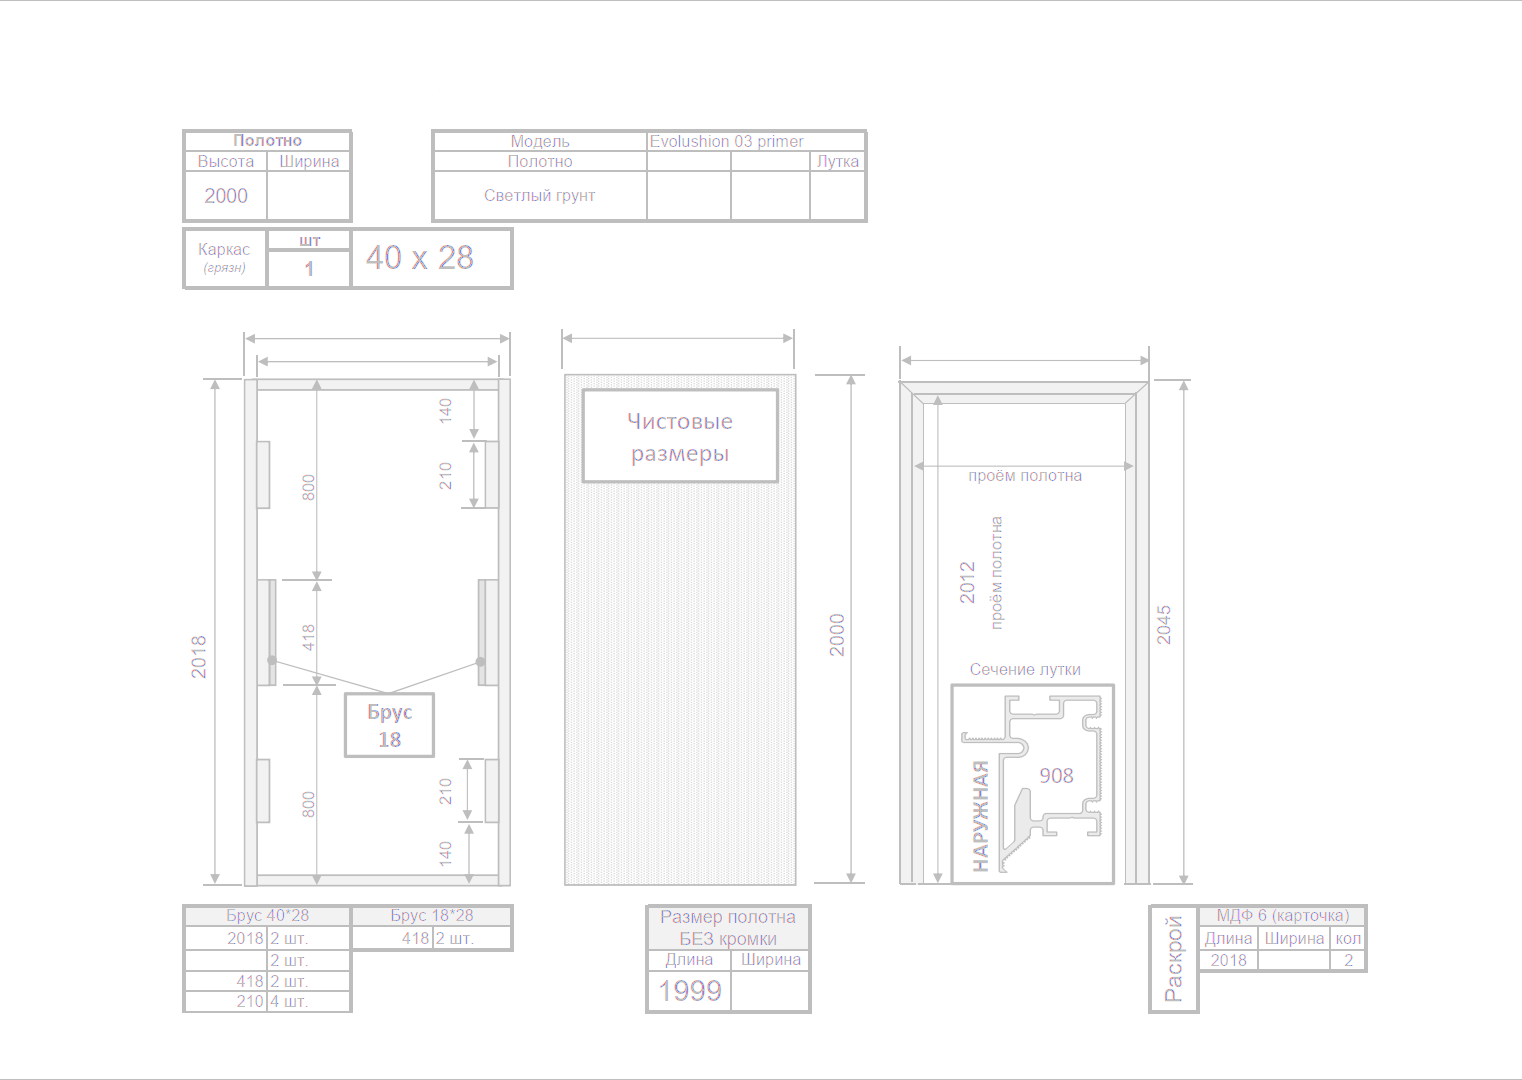
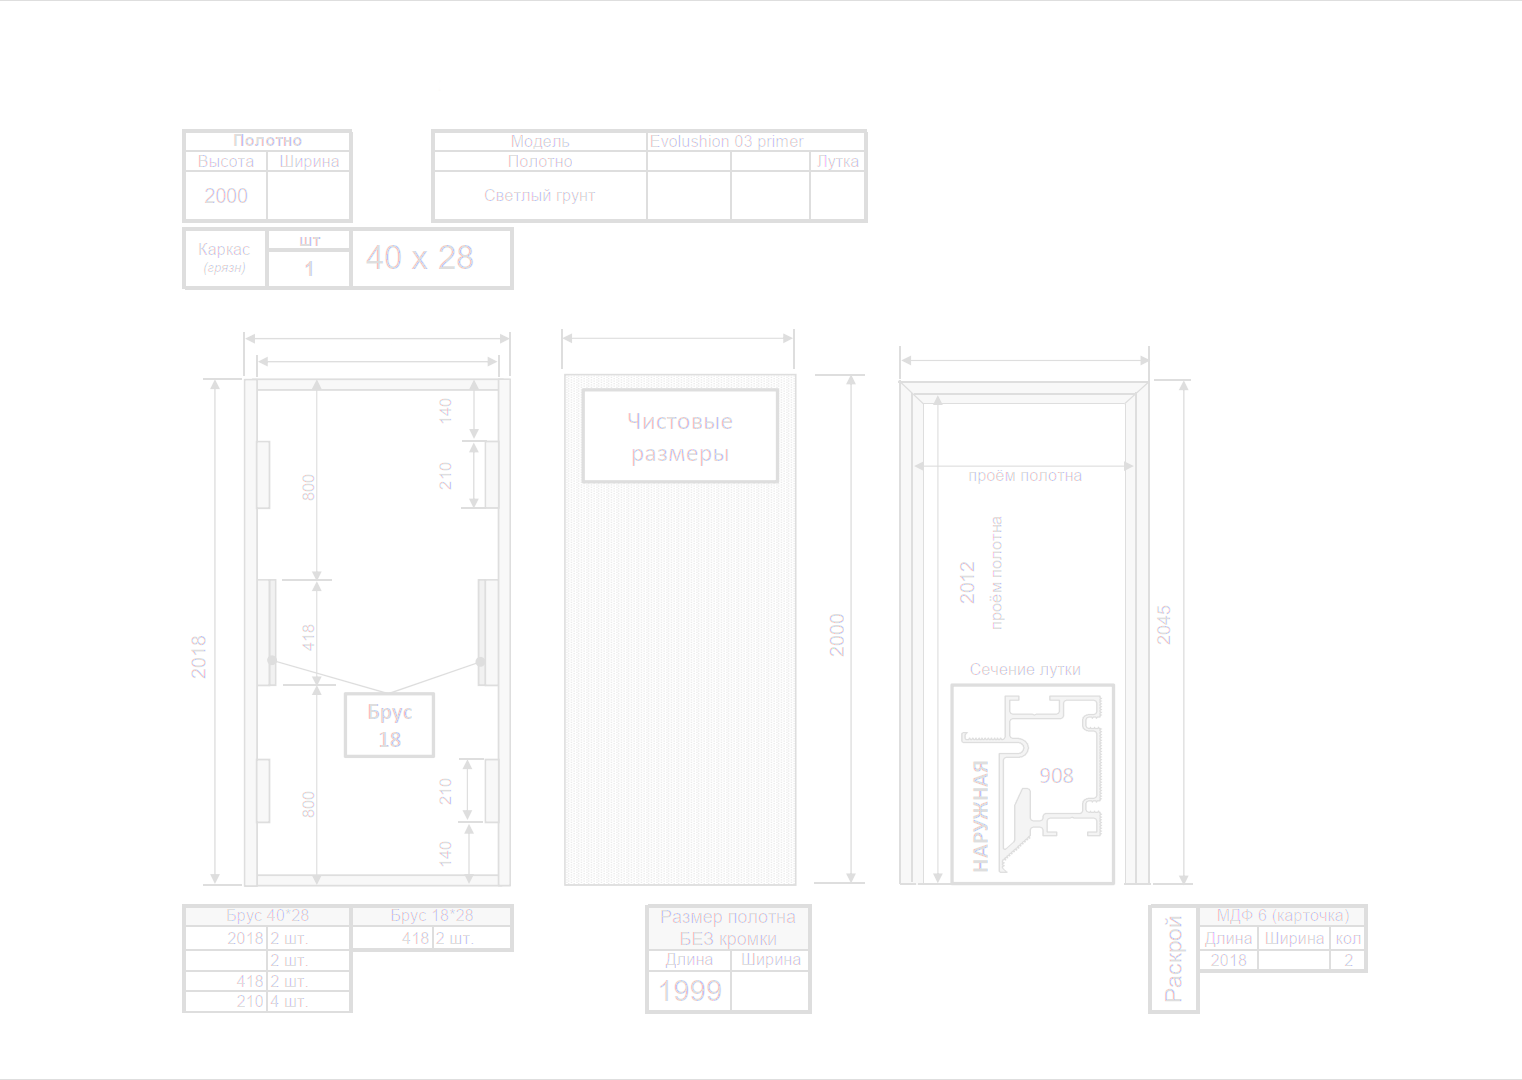
update sketch 2

diff --git a/app_dir/sketch/sketch_config.py b/app_dir/sketch/sketch_config.py
@@ -1,3 +1,4 @@
+import math
 
 CM = 28
 Base_line_width = 2
@@ -154,7 +155,7 @@ def draw_table(ctx):
     ctx.move_to(2.1 * CM, 4.9 * CM)
     ctx.show_text("Каркас")
     ctx.set_font_size(10)
-    ctx.move_to(2.2 * CM, 5.4 * CM)
+    ctx.move_to(2.2 * CM, 5.3 * CM)
     ctx.show_text("(грязн)")
     ctx.move_to(3.8 * CM, 4.9 * CM)
     ctx.show_text("шт")
@@ -186,7 +187,7 @@ def draw_table(ctx):
         thin_rectangle(ctx, 2, 17.5 + i * 0.5, 1.5, 0.5)
         thin_rectangle(ctx, 3.5, 17.5 + i * 0.5, 1.5, 0.5)
 
-    base_rectangle(ctx, 2, 17, 3, 3.5)
+    base_rectangle(ctx, 2, 17, 3, 3)
 
     # Таблица для бруса 18
     thin_rectangle(ctx, 5, 17.5, 1.5, 0.5)
@@ -213,3 +214,77 @@ def draw_table(ctx):
 
     base_rectangle(ctx, 23, 17, 1, 3.5)
     base_rectangle(ctx, 24, 17, 4, 3.5)
+
+
+def strelka(ctx, sx=56, sy=56, vector=0):
+    # big size
+    bs = 8
+    # half small size
+    hss = 2
+    ctx.move_to(sx, sy)
+    if vector == 0:
+        ctx.line_to(sx + bs, sy - hss)
+        ctx.line_to(sx + bs, sy + hss)
+    elif vector == 1:
+        ctx.line_to(sx + hss, sy + bs)
+        ctx.line_to(sx - hss, sy + bs)
+    elif vector == 2:
+        ctx.line_to(sx - bs, sy - hss)
+        ctx.line_to(sx - bs, sy + hss)
+    elif vector == 3:
+        ctx.line_to(sx - hss, sy - bs)
+        ctx.line_to(sx + hss, sy - bs)
+    ctx.close_path()
+    ctx.set_line_width(1.00)
+    ctx.set_source_rgb(*black)
+    # ctx.fill()
+    ctx.fill_preserve()
+    ctx.stroke()
+
+
+def razmer_h(ctx, x, y, dx, v, d=0.5, text="пусто"):
+    # x, y - начальная точка
+    # dx - длина на рисунке
+    # v - направление отсупа вниз(+) или вверх(-)
+    # d - размер отступа на рисунке
+    # text - само значенние
+    ctx.set_line_width(Small_line_width)
+    ctx.move_to(x, y + 4 * v)
+    ctx.line_to(x, y + d * CM * v)
+    ctx.move_to(x + dx, y + 4 * v)
+    ctx.line_to(x + dx, y + d * CM * v)
+    ctx.move_to(x + 2, y + (d * CM - 4) * v)
+    ctx.line_to(x + dx - 2, y + (d * CM - 4) * v)
+    ctx.stroke()
+    strelka(ctx, x + 2, y + (d * CM - 4) * v, vector=0)
+    strelka(ctx, x + dx - 2, y + (d * CM - 4) * v, vector=2)
+
+    (xt, yt, width_t, height_t, dxt, dyt) = ctx.text_extents(text)
+
+    ctx.move_to(x + dx / 2 - dxt / 2, y + (d * CM - 2) * v)
+    ctx.show_text(text)
+
+
+def razmer_v(ctx, x, y, dy, v, d=0.5, text="пусто"):
+    # x, y - начальная точка
+    # dy - длина на рисунке
+    # v - направление отсупа вправо(+) или влево(-)
+    # d - размер отступа на рисунке
+    # text - само значенние
+    ctx.set_line_width(Small_line_width)
+    ctx.move_to(x + 4 * v, y)
+    ctx.line_to(x + d * CM * v, y)
+    ctx.move_to(x + 4 * v, y + dy)
+    ctx.line_to(x + d * CM * v, y + dy)
+    ctx.move_to(x + (d * CM - 4) * v, y + 2)
+    ctx.line_to(x + (d * CM - 4) * v, y + dy - 2)
+    ctx.stroke()
+    strelka(ctx, x + (d * CM - 4) * v, y + 2, vector=1)
+    strelka(ctx, x + (d * CM - 4) * v, y + dy - 2, vector=3)
+
+    (xt, yt, width_t, height_t, dxt, dyt) = ctx.text_extents(text)
+    ctx.save()
+    ctx.move_to(x + (d * CM - 2) * v, y + dy / 2 + dxt / 2)
+    ctx.rotate(3 * math.pi / 2)
+    ctx.show_text(text)
+    ctx.restore()

diff --git a/app_dir/sketch/evolushion_03.py b/app_dir/sketch/evolushion_03.py
@@ -5,7 +5,7 @@ import cairo
 from app_dir.sketch.sketch_config import CM
 from app_dir.sketch.sketch_config import perymetr
 from app_dir.sketch.sketch_config import draw_carcase, draw_table,\
-    draw_finishing_cutting
+    draw_finishing_cutting, razmer_h, razmer_v
 
 
 class Cw_evolushion_03_primer_ww_external():
@@ -81,25 +81,32 @@ class Cw_evolushion_03_primer_ww_external():
 
     def draw_carcase_thickness(self):
         pass
-        # self.ctx.set_font_size(17)
-        # # Толщина бруса
-        # self.ctx.move_to(7.8 * CM, 5.4 * CM)
-        # self.ctx.show_text(str(self.TIMBER_THICKNESS))
+        self.ctx.set_font_size(18)
+        # Толщина бруса
+        self.ctx.move_to(5.7 * CM, 5.2 * CM)
+        self.ctx.show_text(str(self.TIMBER_THICKNESS))
 
     def draw_carcase_size(self):
         self.ctx.set_font_size(12)
         # Высота черновая, Стойка бруса и МДФ 6
-        # draft_size_h = str(self.door_h + 9 * 2)
-        # self.ctx.save()
-        # self.ctx.move_to(3 * CM, 13 * CM)
-        # self.ctx.rotate(3 * math.pi / 2)
-        # self.ctx.show_text(draft_size_h)
-        # self.ctx.restore()
+        draft_size_h = str(self.door_h + 9 * 2)
+        razmer_v(
+            self.ctx, 3 * CM, 7.5 * CM, 9 * CM,
+            -1, d=0.5,
+            text=draft_size_h
+        )
+        razmer_v(
+            self.ctx, 8.5 * CM, 7.5 * CM, 9 * CM,
+            -1, d=0.5,
+            text=draft_size_h
+        )
+
         # self.ctx.save()
         # self.ctx.move_to(15.2 * CM, 13 * CM)
         # self.ctx.rotate(3 * math.pi / 2)
         # self.ctx.show_text(draft_size_h)
         # self.ctx.restore()
+
         # self.ctx.move_to(24 * CM, 19.05 * CM)
         # self.ctx.show_text(draft_size_h)
         # self.ctx.move_to(3 * CM, 18.61 * CM)
@@ -107,16 +114,25 @@ class Cw_evolushion_03_primer_ww_external():
 
         # Ширина черновая и МДФ 6
         draft_size_w = str(self.door_w + 9 * 2)
-        self.ctx.move_to(7 * CM, 6.5 * CM)
-        self.ctx.show_text(draft_size_w)
-        self.ctx.move_to(13 * CM, 6.5 * CM)
-        self.ctx.show_text(draft_size_w)
-        self.ctx.move_to(25 * CM, 19 * CM)
+        # каркас
+        razmer_h(
+            self.ctx, 3 * CM, 7.5 * CM, 4 * CM, -1, d=1, text=draft_size_w
+        )
+        # полотно
+        razmer_h(
+            self.ctx, 8.5 * CM, 7.5 * CM, 4 * CM, -1, d=1, text=draft_size_w
+        )
+        self.ctx.move_to(25.9 * CM, 18.4 * CM)
         self.ctx.show_text(draft_size_w)
 
         # Поперечка бруса
-        self.ctx.move_to(7 * CM, 7 * CM)
-        self.ctx.show_text(str(self.door_w + 9 * 2 - 40 * 2))
+        razmer_h(
+            self.ctx, 3 * CM + 0.2 * CM, 7.5 * CM, 4 * CM - 0.2 * CM * 2,
+            -1, d=0.5,
+            text=str(self.door_w + 9 * 2 - 40 * 2)
+        )
+        # self.ctx.move_to(7 * CM, 7 * CM)
+        # self.ctx.show_text(str(self.door_w + 9 * 2 - 40 * 2))
         self.ctx.move_to(4.4 * CM, 19 * CM)
         self.ctx.show_text(str(self.door_w + 9 * 2 - 40 * 2))
 
